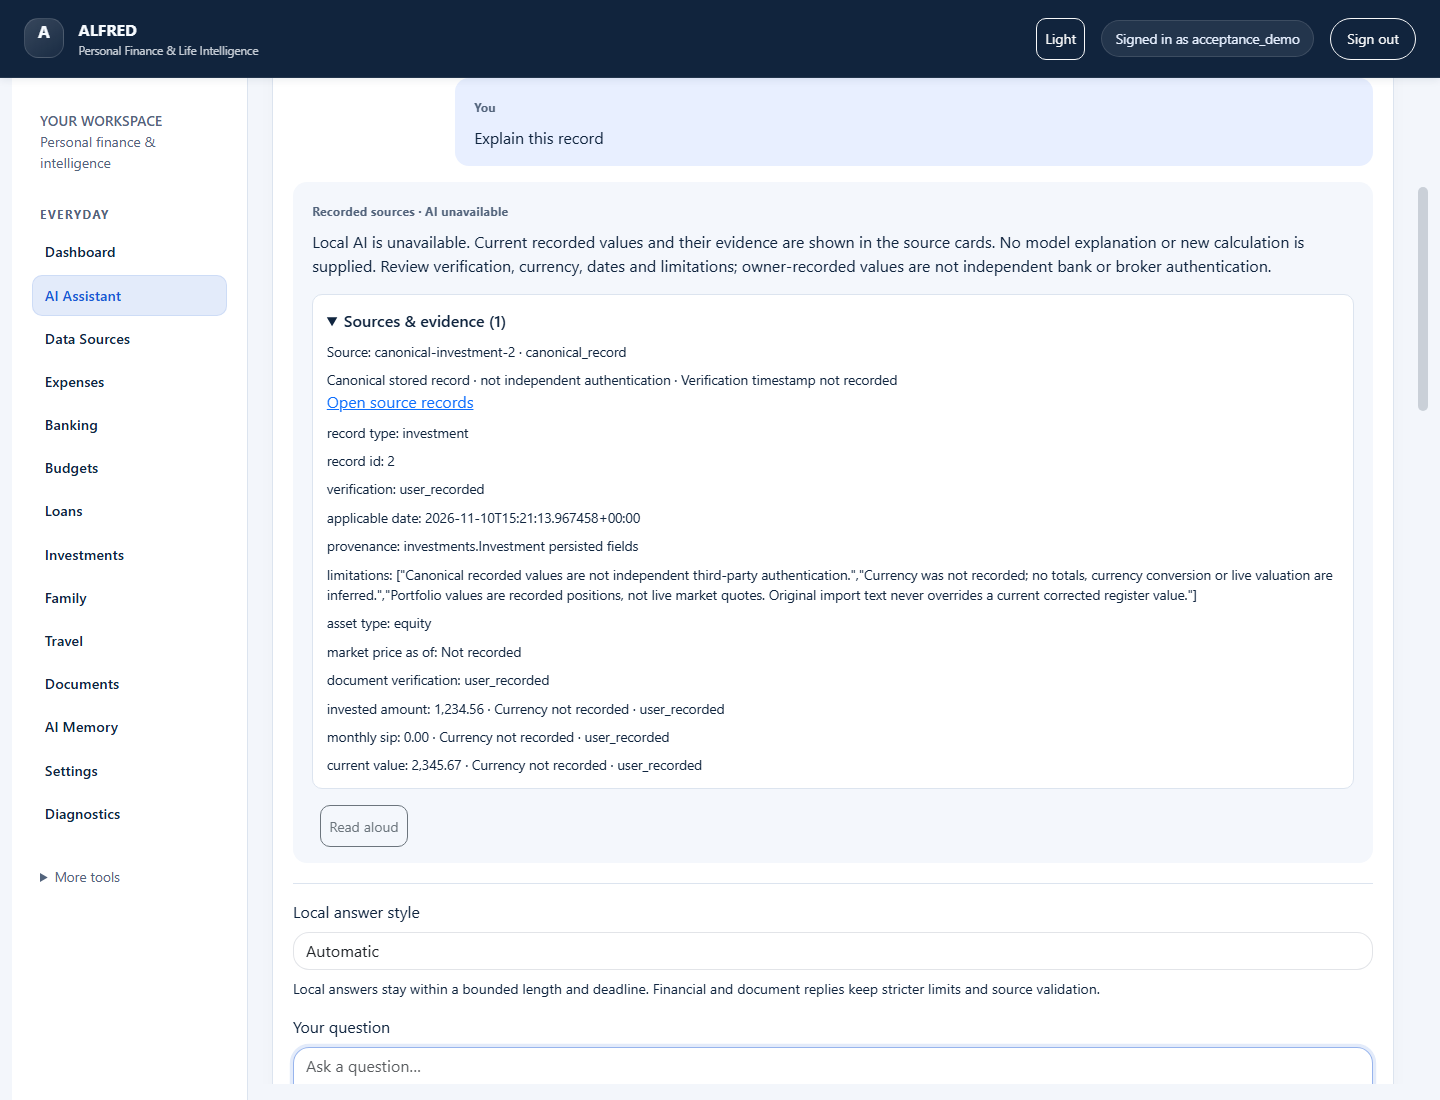
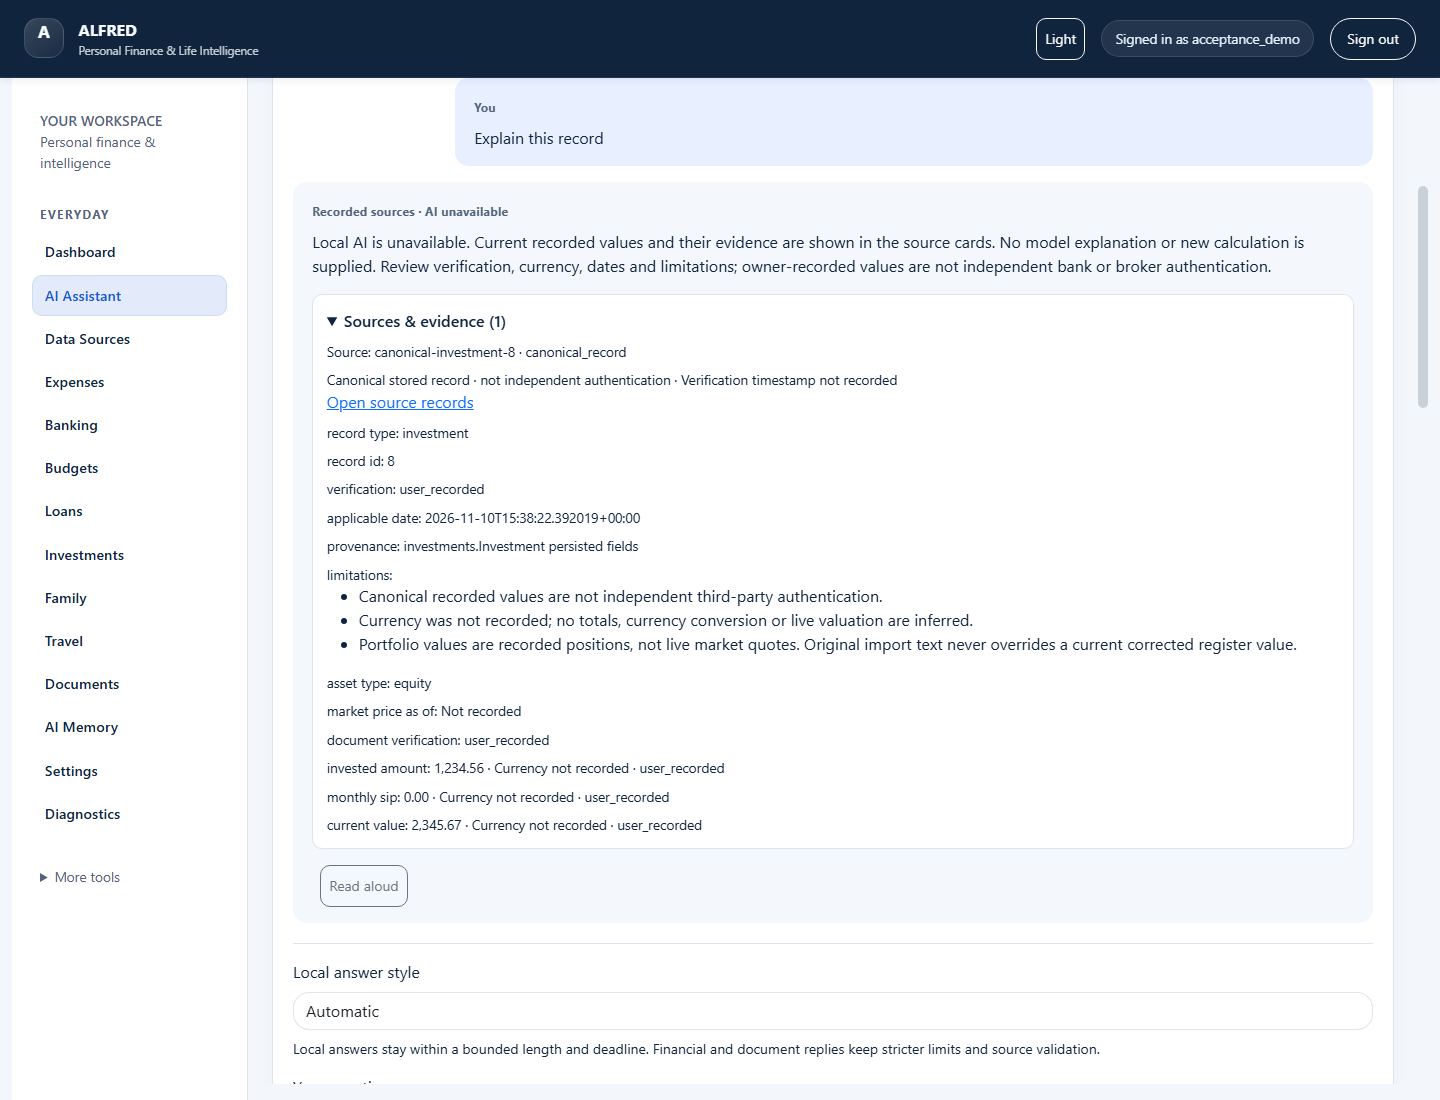
Checkpoint usability sprint and select read-only tool registry continuation

diff --git a/docs/ai_progress/HANDOFF.md b/docs/ai_progress/HANDOFF.md
@@ -1,5 +1,37 @@
 # Codex / Claude checkpoint
 
+## Codex continuation checkpoint - 2026-11-10
+
+CODEX_TO_CLAUDE_READY for context continuity; no agent launch or independent audit.
+Codex stops writing after this checkpoint. Verify sole writer before resuming.
+Branch `work/usability-integration`; latest implementation30ab4d8ac80c7fabcd5e31aca40edf4f71570b62,
+presentation sourcee9808c27ad3b4dcdd80c09054e728f3df2dcc92f, base60595a99a28214933c7a7d874554a468eca550c8.
+Documentation HEAD: `git log -1 --format=%H -- docs/ai_progress/STATE.json`.
+
+Completed USE-04/evidence-card-presentation: record IDs no longer acquire an INR
+label; only existing typed monetary cards display recorded currencies. Limitations
+use inert text lists; action headings no longer falsely say nothing saved after
+confirmation/lost response. No calculation, currency policy, backend or schema change.
+At e9808c2:53 backend PASS31.847s,4 Chrome PASS48.189s, four recovery Axe audits
+zero violations/manual contrast open. At30ab4d8:2 affected action Chrome PASS30.225s,
+four action Axe audits zero violations/manual contrast open. Receipts stay bound to
+their actual SHAs; no old checks transferred. Both clean preflights PASS; promotion BLOCKED.
+
+Sprint also completed bound actions0ca2168 and offline recoveryebbd056; earlier
+136/226 backend, actual Waitress/restart and unmocked Ollama evidence is retained
+separately in TEST_EVIDENCE. No new failing/skipped tests at final scope sources.
+No owner runtime/data/key/model/backup/install or remote changes. Cache edit/hash
+41C88BDBB1C03AD218EDE0190C62C9370C01717842FAE6ADCEE368A6D4E2BAE9 remains unstaged.
+Baseline85/143 and extensions0/13 unchanged. Full2.0/3.0/CI/owner/package/independent
+acceptance remains open. Exact changed files and receipts: STATE/TEST_EVIDENCE.
+
+Next selected, NOT_IMPLEMENTED: USE-04/typed-read-only-tool-registry. Resume by
+reading source_context/hybrid_answer and existing canonical adapters; wrap reviewed
+local read services with typed schemas, owner/consent/privacy/network/deadline/cache/
+side-effect/audit declarations. Reuse current calculations and source revalidation.
+No application MCP server is approved/configured; host tools are not app connections.
+Keep external connections disabled and do not add a second financial/travel engine.
+
 ## Sprint checkpoint - 2026-11-10 offline record recovery
 
 Codex sole writer; sprint continues on `work/usability-integration`. USE-04/offline-record-overview

diff --git a/docs/EXECUTION_STATE.md b/docs/EXECUTION_STATE.md
@@ -1,5 +1,37 @@
 # ALFRED execution state
 
+## Codex continuation checkpoint - 2026-11-10
+
+CODEX_TO_CLAUDE_READY for context continuity; no agent launch or independent audit.
+Codex stops writing after this checkpoint. Verify sole writer before resuming.
+Branch `work/usability-integration`; latest implementation30ab4d8ac80c7fabcd5e31aca40edf4f71570b62,
+presentation sourcee9808c27ad3b4dcdd80c09054e728f3df2dcc92f, base60595a99a28214933c7a7d874554a468eca550c8.
+Documentation HEAD: `git log -1 --format=%H -- docs/ai_progress/STATE.json`.
+
+Completed USE-04/evidence-card-presentation: record IDs no longer acquire an INR
+label; only existing typed monetary cards display recorded currencies. Limitations
+use inert text lists; action headings no longer falsely say nothing saved after
+confirmation/lost response. No calculation, currency policy, backend or schema change.
+At e9808c2:53 backend PASS31.847s,4 Chrome PASS48.189s, four recovery Axe audits
+zero violations/manual contrast open. At30ab4d8:2 affected action Chrome PASS30.225s,
+four action Axe audits zero violations/manual contrast open. Receipts stay bound to
+their actual SHAs; no old checks transferred. Both clean preflights PASS; promotion BLOCKED.
+
+Sprint also completed bound actions0ca2168 and offline recoveryebbd056; earlier
+136/226 backend, actual Waitress/restart and unmocked Ollama evidence is retained
+separately in TEST_EVIDENCE. No new failing/skipped tests at final scope sources.
+No owner runtime/data/key/model/backup/install or remote changes. Cache edit/hash
+41C88BDBB1C03AD218EDE0190C62C9370C01717842FAE6ADCEE368A6D4E2BAE9 remains unstaged.
+Baseline85/143 and extensions0/13 unchanged. Full2.0/3.0/CI/owner/package/independent
+acceptance remains open. Exact changed files and receipts: STATE/TEST_EVIDENCE.
+
+Next selected, NOT_IMPLEMENTED: USE-04/typed-read-only-tool-registry. Resume by
+reading source_context/hybrid_answer and existing canonical adapters; wrap reviewed
+local read services with typed schemas, owner/consent/privacy/network/deadline/cache/
+side-effect/audit declarations. Reuse current calculations and source revalidation.
+No application MCP server is approved/configured; host tools are not app connections.
+Keep external connections disabled and do not add a second financial/travel engine.
+
 ## Sprint checkpoint - 2026-11-10 offline record recovery
 
 Codex sole writer; sprint continues on `work/usability-integration`. USE-04/offline-record-overview

diff --git a/docs/ai_progress/TEST_EVIDENCE.md b/docs/ai_progress/TEST_EVIDENCE.md
@@ -1,5 +1,35 @@
 # Test evidence index
 
+## 2026-11-10 - evidence card metadata and action labels
+
+Scope base60595a99a28214933c7a7d874554a468eca550c8. Artifacts/evidence-card-20261110
+contains failed and passing receipts; source-manifest/commands.json pins each source.
+
+- Actual Chrome reproduction FAILED: record id1 appeared as INR1.00. Original
+  receipt/screenshot retained. Removed the generic default-currency formatter for
+  metadata; canonical typed amount rendering and all Python calculations unchanged.
+- Sourcee9808c27ad3b4dcdd80c09054e728f3df2dcc92f:53 backend PASS, zero failures/skips,
+  31.847s (intelligence/budget currency/Decimal, browser plan and Windows native).
+  Four real Chrome PASS, zero failures/skips,48.189s (runner wall60.61s): baseline ID,
+  readable limitations/malicious text inert, recorded USD2,345.67 unchanged, normal
+  multidomain correction, closure citations and real-socket-outage recovery/reopen.
+  Four light/dark1440/390 recovery Axe audits zero violations/manual contrast open.
+- Follow-up source30ab4d8ac80c7fabcd5e31aca40edf4f71570b62 changes ONLY the action
+  review heading and static cache version. Two affected actual Chrome journeys PASS,
+  zero failures/skips,30.225s (runner wall42.5s): confirm/cancel/Budgets reopen and
+  stale review/interrupted committed response/keyboard retry. Four action Axe audits
+  zero violations/manual contrast open. No backend checks transferred between SHAs.
+- Both exact-source source/privacy/dependency/migration preflights PASS. Clean
+  validation worktree F:/ALFRED_DEV/usability-evidence-check-e9808c2 moved safely from
+  contained clean e9808c2 to30ab4d8; receipts retain original candidates. Promotion
+  stays BLOCKED. No hosted CI, independent review or owner/package acceptance.
+- JS/diff/AST-only graph checks PASS. Guide recovery screenshot refreshed from real
+  synthetic Chrome and visually checked. No new dependencies/schema/owner runtime,
+  keys/models/media/backups/installation or remote writes. The author-email typo in
+  the immediately preceding unpublished presentation commit was corrected before
+  validation; the identical source tree is recorded at e9808c2, not the superseded
+  metadata object169b7be435bfbef42e8a5a7d0347d2a34de17886.
+
 ## 2026-11-10 - offline record overview
 
 Sourceebbd0560507706babbea20635ab74ed20b0cc831, basee2161012e94151d7c7933a1205520193c0b1211a.

diff --git a/docs/ai_progress/EXECUTION_BOARD.md b/docs/ai_progress/EXECUTION_BOARD.md
@@ -1,5 +1,15 @@
 # Current execution board
 
+## Codex continuation checkpoint - 2026-11-10
+
+CODEX_TO_CLAUDE_READY; no agent launched. Preparation branchwork/usability-integration;
+latest source30ab4d8ac80c7fabcd5e31aca40edf4f71570b62. Bound actions, offline record
+recovery and evidence display are locally accepted within their recorded scopes.
+Tests/preflight remain bound to each exact source in [TEST_EVIDENCE](TEST_EVIDENCE.md)
+and [HANDOFF](HANDOFF.md); no CI/push/merge/install or owner runtime change.
+Typed read-only registry selected next, NOT_IMPLEMENTED. Cache edit preserved;
+baseline85/143, extensions0/13 and whole release/owner/3.0 gates unchanged.
+
 ## Sprint checkpoint - 2026-11-10 offline record recovery
 
 Codex sole writer; sprint continues on `work/usability-integration`. USE-04/offline-record-overview
@@ -57,6 +67,10 @@ Validated loan implementation:88c1df8; latest preservation follow-up:c2d1517.
 
 | Bounded scope | State | Evidence / next dependency |
 | --- | --- | --- |
+| USE-05 bound savings-goal confirmation | LOCAL_ACCEPTED / COMMITTED_LOCAL |0ca2168;136 backend/3 Chrome/actual native HTTP concurrency and restart; exact source preflight PASS |
+| USE-04 offline canonical record recovery | LOCAL_ACCEPTED / COMMITTED_LOCAL |ebbd056;226 backend/4 Chrome/1 unmocked Ollama; exact source preflight PASS |
+| USE-04 evidence card presentation | LOCAL_ACCEPTED / COMMITTED_LOCAL |e9808c2:53 backend/4 Chrome;30ab4d8:2 affected action Chrome; each source preflight PASS |
+| USE-04 typed read-only tool registry | SELECTED / NOT_IMPLEMENTED |Continue existing source adapters; no new remote MCP connections authorized |
 | USE-01 diagnostics; USE-02 inventory hub | COMMITTED_LOCAL | cba5b53; earlier synthetic evidence retained |
 | USE-03 bounded encrypted-history context | COMMITTED_LOCAL | 4019ee2; earlier synthetic and actual local-model evidence retained |
 | USE-02 statement preview / confirmation | LOCAL_ACCEPTED / COMMITTED_LOCAL | 0f35605; 157 backend, Chrome + four Axe audits, native19 PASS; clean-source preflight PASS |

diff --git a/docs/CI_PIPELINE_STATE.md b/docs/CI_PIPELINE_STATE.md
@@ -1,5 +1,15 @@
 # Development CI and integration pipeline
 
+## Codex continuation checkpoint - 2026-11-10
+
+CODEX_TO_CLAUDE_READY; no agent launched. Preparation branchwork/usability-integration;
+latest source30ab4d8ac80c7fabcd5e31aca40edf4f71570b62. Bound actions, offline record
+recovery and evidence display are locally accepted within their recorded scopes.
+Tests/preflight remain bound to each exact source in [TEST_EVIDENCE](ai_progress/TEST_EVIDENCE.md)
+and [HANDOFF](ai_progress/HANDOFF.md); no CI/push/merge/install or owner runtime change.
+Typed read-only registry selected next, NOT_IMPLEMENTED. Cache edit preserved;
+baseline85/143, extensions0/13 and whole release/owner/3.0 gates unchanged.
+
 ## Sprint checkpoint - 2026-11-10 offline record recovery
 
 Codex sole writer; sprint continues on `work/usability-integration`. USE-04/offline-record-overview

diff --git a/docs/ALFRED_USABILITY_INTEGRATION.md b/docs/ALFRED_USABILITY_INTEGRATION.md
@@ -1,5 +1,15 @@
 # ALFRED_USABILITY_INTEGRATION
 
+## Codex continuation checkpoint - 2026-11-10
+
+CODEX_TO_CLAUDE_READY; no agent launched. Preparation branchwork/usability-integration;
+latest source30ab4d8ac80c7fabcd5e31aca40edf4f71570b62. Bound actions, offline record
+recovery and evidence display are locally accepted within their recorded scopes.
+Tests/preflight remain bound to each exact source in [TEST_EVIDENCE](ai_progress/TEST_EVIDENCE.md)
+and [HANDOFF](ai_progress/HANDOFF.md); no CI/push/merge/install or owner runtime change.
+Typed read-only registry selected next, NOT_IMPLEMENTED. Cache edit preserved;
+baseline85/143, extensions0/13 and whole release/owner/3.0 gates unchanged.
+
 ## Sprint checkpoint - 2026-11-10 offline record recovery
 
 Codex sole writer; sprint continues on `work/usability-integration`. USE-04/offline-record-overview

diff --git a/docs/ai_progress/DECISIONS.md b/docs/ai_progress/DECISIONS.md
@@ -1,5 +1,14 @@
 # Execution decisions
 
+## 2026-11-10 - typed financial display only
+
+A source classification cannot turn every numeric metadata field into money.
+Identifiers stay scalar text; monetary display uses the existing exact typed amount
+block and recorded currency, without changing currency or valuation policy. Known
+limitation strings use text-node lists; model/document HTML remains inert. Static
+review headings describe a review rather than asserting no save after an uncertain
+network reply. No upstream code adopted or new calculation engine introduced.
+
 ## 2026-11-10 - source cards survive local inference failure
 
 A supported canonical question may recover from EmbeddingUnavailable using only

diff --git a/docs/ai_progress/KNOWN_ISSUES.md b/docs/ai_progress/KNOWN_ISSUES.md
@@ -1,5 +1,14 @@
 # Known issues and gates
 
+## Continuation after the bounded sprint
+
+Local action binding0ca2168, offline canonical recoveryebbd056 and evidence display
+e9808c2/30ab4d8 are accepted only within their recorded scopes. Typed tools and broad
+cross-module orchestration are selected next and remain NOT_IMPLEMENTED. No trusted
+application MCP server/source is configured; available host IDE/browser/Figma tools
+are not automatically exposed to ALFRED. Full onboarding/history streaming, manual
+contrast, independent/owner/CI/package/upgrade/release and3.0 gates remain open.
+
 ## Offline overview limits
 
 Bounded record recoveryebbd056 handles existing supported canonical finance,
